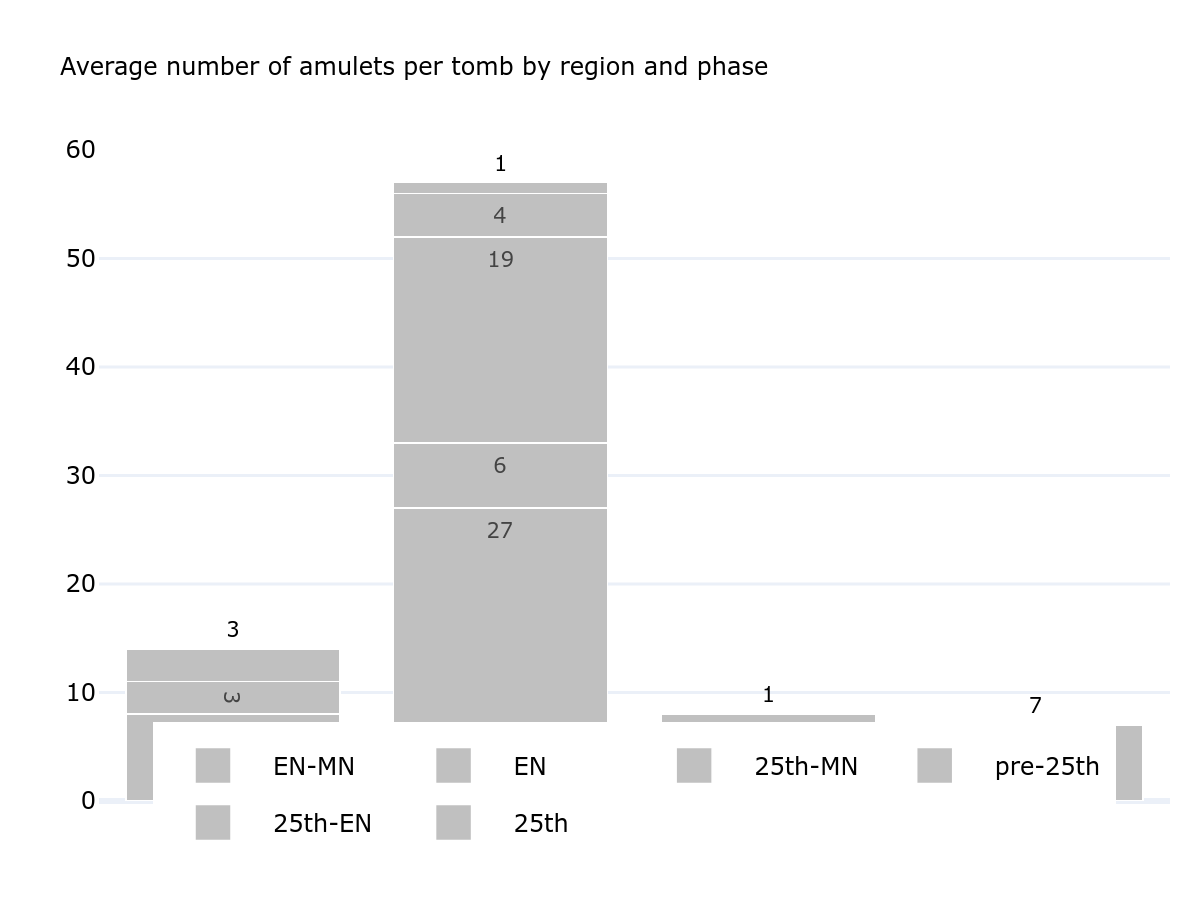
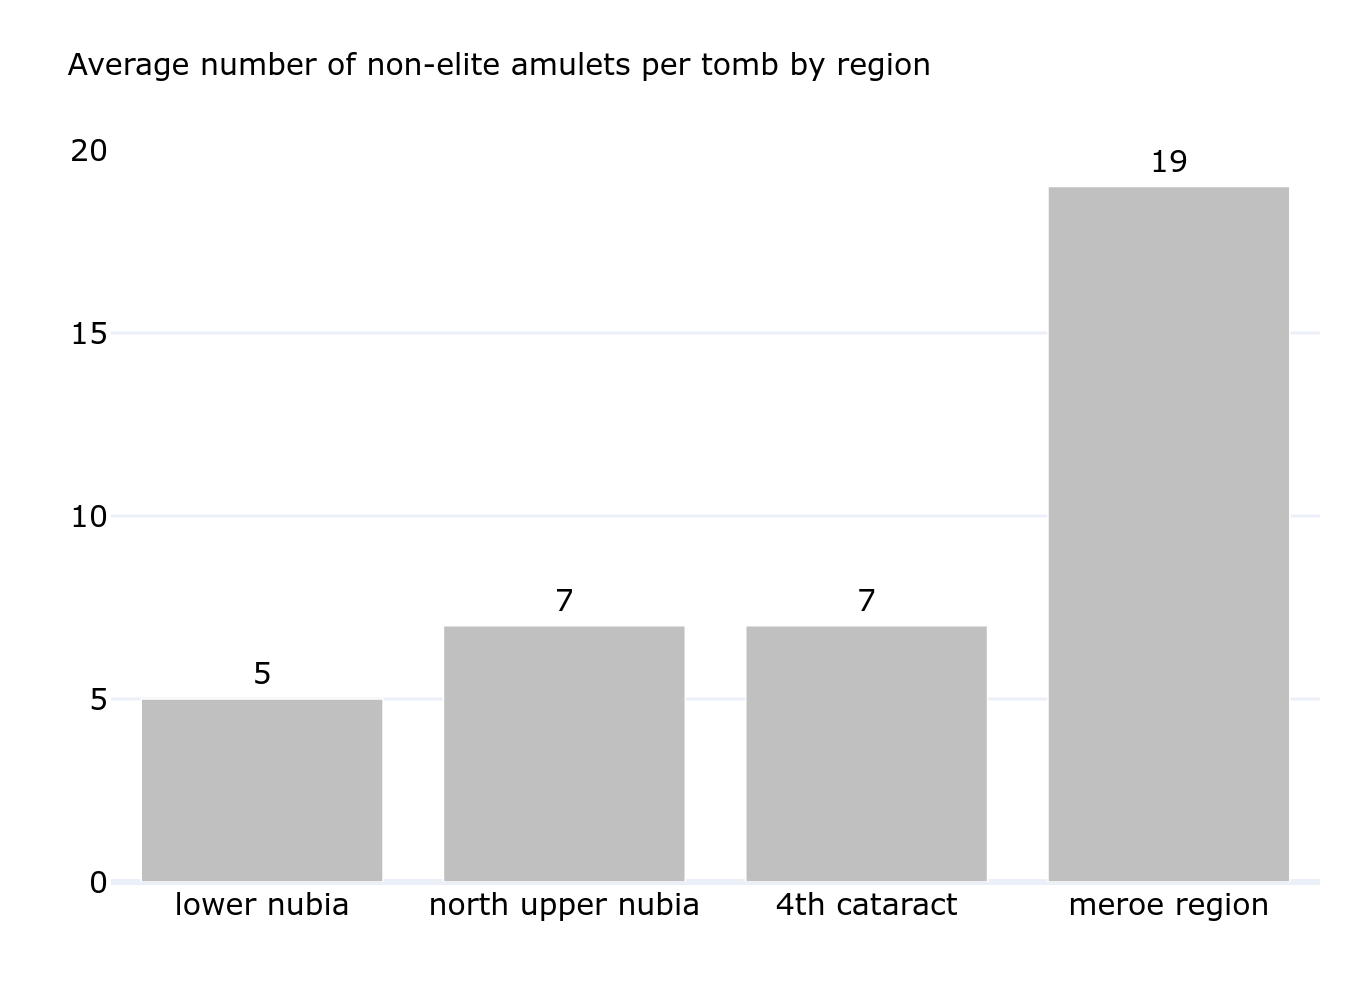
new presentation

diff --git a/chapter5/region_totall.py b/chapter5/region_totall.py
@@ -1,0 +1,83 @@
+import pandas as pd
+import plotly.express as px
+from sqlalchemy import create_engine
+import plotly.io as pio
+import plotly.graph_objects as go
+from plotly.subplots import make_subplots
+
+engine = create_engine('mysql+pymysql://victoria:amulets123@localhost:3306/phd_v5')
+
+query = """
+SELECT 
+    region,
+    COUNT(DISTINCT b.burial_id) as tomb_count,
+    COUNT(amulet_id) as total_amulets
+FROM burials b
+LEFT JOIN amulets a ON a.burial_id = b.burial_id
+JOIN sites s ON s.site_id = b.site_id
+WHERE dating = 'napatan' 
+    AND b.site_id IN (4,5,6,7,8,9,10) 
+    AND social_group = 'non-elite'
+GROUP BY 1
+"""
+
+df = pd.read_sql(query, engine)
+
+custom_colors = ['#e9724d', '#92cad1', '#d6d727', '#79ccb3', '#868686',
+                 '#8b4513', '#2f4f4f', '#ff6b4a', '#20b2aa', '#daa520',
+                 '#cd5c5c', '#4682b4', '#e8ea7a', '#98fb98', '#696969']
+
+region_order = ["lower nubia", "north upper nubia", "4th cataract", "meroe region"]
+
+df['region'] = pd.Categorical(df['region'], categories=region_order, ordered=True)
+
+df = df.sort_values('region')
+
+df_melted = df.melt(id_vars=['region'], 
+                    value_vars=['tomb_count', 'total_amulets'],
+                    var_name='metric', 
+                    value_name='count')
+
+# Create custom names for the metrics
+df_melted['metric'] = df_melted['metric'].replace({
+    'tomb_count': 'total tombs',
+    'total_amulets': 'total amulets'
+})
+
+fig = px.bar(df_melted, 
+             x='region', 
+             y='count', 
+             color='metric',
+             barmode='group',
+             text='count',
+             title='Total number of tombs and amulets by region',
+             template="plotly_white",
+             color_discrete_sequence=custom_colors)
+
+
+fig.update_layout(
+    legend=dict(
+        orientation="h",
+        yanchor="bottom",
+        y=-0.17,
+        xanchor="center",
+        x=0.45),
+        #traceorder='reversed'),
+    font=dict(
+        family="Verdana, sans-serif",
+        color='black',
+        size=8),
+    legend_title_text='',
+    #yaxis=dict(
+        #tickmode='linear',
+        #dtick=1),
+    margin=dict(l=0, r=10, t=50, b=0),
+    autosize=True,
+    title_font=dict(size=8)
+)
+
+fig.update_traces(textposition='outside', textfont_size=6)
+fig.update_xaxes(title_text='')
+fig.update_yaxes(title_text='')
+
+pio.write_image(fig, 'images/chapter5/region_total.png',scale=3, width=450, height=330)

diff --git a/chapter5/region_materials.py b/chapter5/region_materials.py
@@ -1,0 +1,75 @@
+import pandas as pd
+import plotly.express as px
+from sqlalchemy import create_engine
+import plotly.io as pio
+import plotly.graph_objects as go
+
+engine = create_engine('mysql+pymysql://victoria:amulets123@localhost:3306/phd_v5')
+
+query = """
+SELECT
+    s.region,
+    CASE 
+        WHEN m.material_local = 1 THEN 'local'
+        WHEN m.material_imported = 1 THEN 'imported'
+    END as material_type,
+    COUNT(*) as count,
+    ROUND(
+        COUNT(*) * 100.0 / SUM(COUNT(*)) OVER (PARTITION BY s.region),
+        0
+    ) as percentage
+FROM amulets a
+JOIN materials m ON m.material_name = a.material
+JOIN sites s ON s.site_id = a.site_id
+JOIN burials b ON b.burial_id = a.burial_id
+WHERE dating = 'napatan' 
+    AND b.site_id IN (4,5,6,7,8,9,10) 
+    AND social_group = 'non-elite'
+    AND (m.material_local = 1 OR m.material_imported = 1)
+GROUP BY 1,2
+"""
+
+df = pd.read_sql(query, engine)
+
+custom_colors = ['#e9724d', '#92cad1', '#d6d727', '#79ccb3', '#868686',
+                 '#8b4513', '#2f4f4f', '#ff6b4a', '#20b2aa', '#daa520',
+                 '#cd5c5c', '#4682b4', '#e8ea7a', '#98fb98', '#696969']
+
+region_order = ["meroe region", "4th cataract", "north upper nubia", "lower nubia"]
+
+df['region'] = pd.Categorical(df['region'], categories=region_order, ordered=True)
+
+df = df.sort_values('region')
+
+fig = px.bar(
+    df,
+    x='percentage',
+    y='region',
+    text='percentage',
+    color='material_type',
+    barmode='group',
+    title='Distribution of imported and local amulet materials by region in non-elite tombs (in %)',
+    template="plotly_white",
+    color_discrete_sequence=custom_colors
+)
+
+fig.update_layout(
+    legend=dict(
+        traceorder='reversed'), 
+    font=dict(
+        family="Verdana, sans-serif",
+        color='black',
+        size=8),
+    legend_title_text='',
+    #yaxis=dict(
+        #tickmode='linear',
+        #dtick=1),
+    margin=dict(l=0, r=10, t=50, b=0),
+    title_font=dict(size=8)
+)
+
+fig.update_traces(textposition='outside', textfont_size=6)
+fig.update_xaxes(title_text='')
+fig.update_yaxes(title_text='')
+
+pio.write_image(fig, 'images/chapter5/region_materials.png',scale=3, width=550, height=300)

diff --git a/chapter5/region_udjat.py b/chapter5/region_udjat.py
@@ -14,7 +14,7 @@ select
 from burials b
 join amulets a on a.burial_id = b.burial_id
 join sites s on s.site_id = b.site_id
-where dating = 'napatan' and b.site_id in (4,5,6,7,8,9,10) and social_group = 'non-elite' and form = 'udjat'
+where dating = 'napatan' and b.site_id in (4,5,6,7,8,9,10) and social_group = 'non-elite' and form in ('udjat', 'quadruple udjat')
 group by 1,2
 """
 
@@ -37,9 +37,18 @@ fig = px.line(
     text='total',
     color='form',
     markers=True,
-    title='Distribution of udjat amulets per region',
+    title='Distribution of non-elite udjat and quadruple udjat amulets per region',
     template="plotly_white"
 )
+
+forms = df['form'].unique()
+text_positions = ['top center', 'bottom center', 'top left', 'bottom right', 'middle right']
+
+for i, form in enumerate(forms):
+    fig.update_traces(
+        textposition=text_positions[i % len(text_positions)],
+        selector=dict(name=form)
+    )
 
 fig.update_layout( 
     legend=dict(
@@ -52,18 +61,17 @@ fig.update_layout(
     font=dict(
         family="Verdana, sans-serif",
         color='black',
-        size=8),
+        size=9),
     legend_title_text='',
     #yaxis=dict(
         #tickmode='linear',
         #dtick=1),
     margin=dict(l=0, r=10, t=50, b=0),
     autosize=True,
-    title_font=dict(size=8)
+    title_font=dict(size=9)
 )
 
-fig.update_traces(textposition='top center', textfont_size=6)
 fig.update_xaxes(title_text='')
-fig.update_yaxes(title_text='', matches=None)
+fig.update_yaxes(title_text='')
 
-pio.write_image(fig, 'images/chapter5/region_udjat.png',scale=3, width=350, height=250)
+pio.write_image(fig, 'images/chapter5/region_udjat.png',scale=3, width=450, height=300)

diff --git a/chapter5/region_avg.py b/chapter5/region_avg.py
@@ -9,7 +9,6 @@ engine = create_engine('mysql+pymysql://victoria:amulets123@localhost:3306/phd_v
 query = """
 SELECT 
     region,
-    temp,
     COUNT(DISTINCT b.burial_id) as tomb_count,
     COUNT(amulet_id) as total_amulets,
     ROUND(COUNT(amulet_id) * 1.0 / COUNT(DISTINCT b.burial_id), 0) as avg_amulets_per_tomb
@@ -19,7 +18,7 @@ JOIN sites s ON s.site_id = b.site_id
 WHERE dating = 'napatan' 
     AND b.site_id IN (4,5,6,7,8,9,10) 
     AND social_group = 'non-elite'
-GROUP BY 1,2
+GROUP BY 1
 """
 
 df = pd.read_sql(query, engine)
@@ -36,10 +35,9 @@ fig = px.bar(
     df,
     x='region',
     y='avg_amulets_per_tomb',
-    color='temp',
     barmode='stack',
     text='avg_amulets_per_tomb',
-    title='Average number of amulets per tomb by region and phase',
+    title='Average number of non-elite amulets per tomb by region',
     color_discrete_sequence=custom_colors,
     template="plotly_white"
 )
@@ -55,18 +53,18 @@ fig.update_layout(
     font=dict(
         family="Verdana, sans-serif",
         color='black',
-        size=8),
+        size=10),
     legend_title_text='',
     #yaxis=dict(
         #tickmode='linear',
         #dtick=1),
     margin=dict(l=0, r=10, t=50, b=0),
     autosize=True,
-    title_font=dict(size=8)
+    title_font=dict(size=10)
 )
 
-fig.update_traces(textposition='outside', textfont_size=7)
+fig.update_traces(textposition='outside', textfont_size=10)
 fig.update_xaxes(title_text='')
 fig.update_yaxes(title_text='', matches=None)
 
-pio.write_image(fig, 'images/chapter5/region_avg.png',scale=3, width=400, height=300)
+pio.write_image(fig, 'images/chapter5/region_avg.png',scale=3, width=450, height=330)

diff --git a/chapter5/region_forms.py b/chapter5/region_forms.py
@@ -33,39 +33,34 @@ ORDER BY 1,2
 
 df = pd.read_sql(query, engine)
 
-custom_colors = ['#C0C0C0']
+custom_colors = ['#E4C8B8', '#E8D8B8', '#B8C8B4', '#D8D8F0']
 
 region_order = ["lower nubia", "north upper nubia", "4th cataract", "meroe region"]
-
 df['region'] = pd.Categorical(df['region'], categories=region_order, ordered=True)
+df_sorted = df.sort_values(['region', 'form'])
 
-df = df.sort_values('region')
+df_count = df_sorted.groupby(['region', 'form']).size().reset_index(name='count')
 
-df = df.reset_index(drop=True)
-
-pivot_df = df.groupby(['form', 'region']).size().unstack(fill_value=0)
-
-fig = px.imshow(
-    pivot_df,
-    #x='dummy',
-    #y='region',
-    #color='form',
-    title='Average number of amulets per tomb by region and phase',
-    #color_discrete_sequence=custom_colors,
-    template="plotly_white",
-    aspect='auto')
+fig = px.sunburst(
+    df_count,
+    path=['region', 'form'],
+    values='count',
+    color='region',
+    color_discrete_sequence=custom_colors,
+    title='Exclusive non-elite amulet motifs by region',
+    template="plotly_white"
+)
 
 fig.update_layout( 
     font=dict(
         family="Verdana, sans-serif",
         color='black',
-        size=8),
+        size=10),
     margin=dict(l=0, r=10, t=50, b=0),
-    title_font=dict(size=8)
+    title_font=dict(size=10)
 )
 
-#fig.update_traces(textposition='top right', textfont_size=7)
 fig.update_xaxes(title_text='')
 fig.update_yaxes(title_text='')
 
-pio.write_image(fig, 'images/chapter5/region_forms.png',scale=3, width=400, height=300)
+pio.write_image(fig, 'images/chapter5/region_forms.png',scale=4, width=300, height=300)

diff --git a/chapter5/region_type.py b/chapter5/region_type.py
@@ -36,33 +36,26 @@ fig = px.line(
     y='total',
     color='type',
     markers=True,
-    title='Distribution of amulet types per region',
+    title='Distribution of non-elite amulet types by region',
     template="plotly_white",
     color_discrete_sequence=custom_colors
 )
 
-fig.update_layout( 
-    legend=dict(
-        orientation="h",
-        yanchor="bottom",
-        y=-0.15,
-        xanchor="center",
-        x=0.50,
-        traceorder='reversed'),
+fig.update_layout(
     font=dict(
         family="Verdana, sans-serif",
         color='black',
-        size=8),
+        size=10),
     legend_title_text='',
     #yaxis=dict(
         #tickmode='linear',
         #dtick=1),
     margin=dict(l=0, r=10, t=50, b=0),
     autosize=True,
-    title_font=dict(size=8)
+    title_font=dict(size=10)
 )
 
-fig.update_traces(textposition='top center', textfont_size=6)
+fig.update_traces(textfont_size=8)
 fig.update_xaxes(title_text='')
 fig.update_yaxes(title_text='', matches=None)
 

diff --git a/chapter5/25-EN_with_3forms.py b/chapter5/25-EN_with_3forms.py
@@ -55,7 +55,7 @@ fig.update_layout(
     margin=dict(l=0, r=10, t=20, b=0),
     autosize=True,
     title_font=dict(size=8),
-    treemapcolorway=px.colors.qualitative.Pastel1
+    treemapcolorway=px.colors.qualitative.Pastel
 )
 
 fig.update_traces(marker=dict(cornerradius=5))
